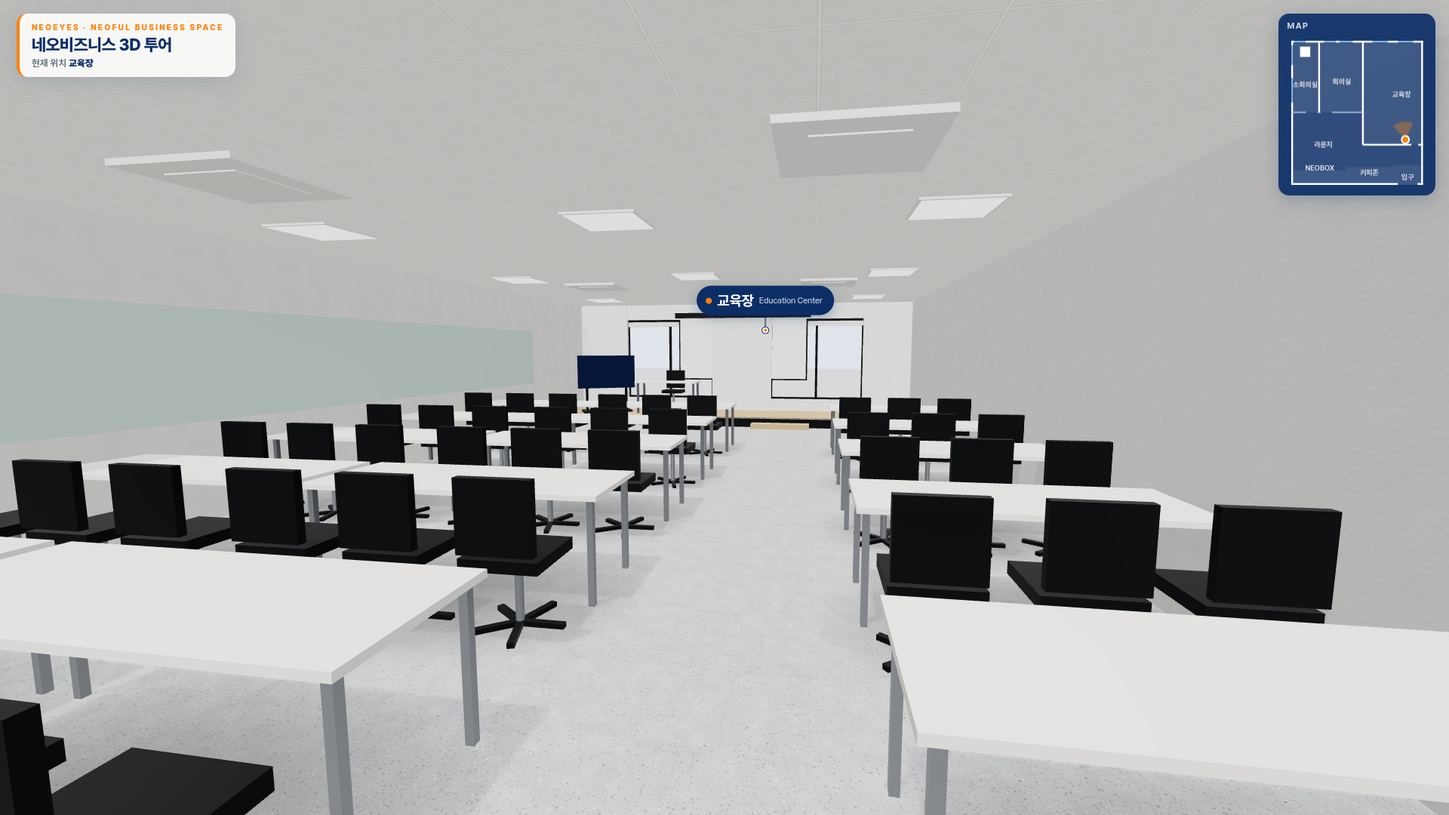
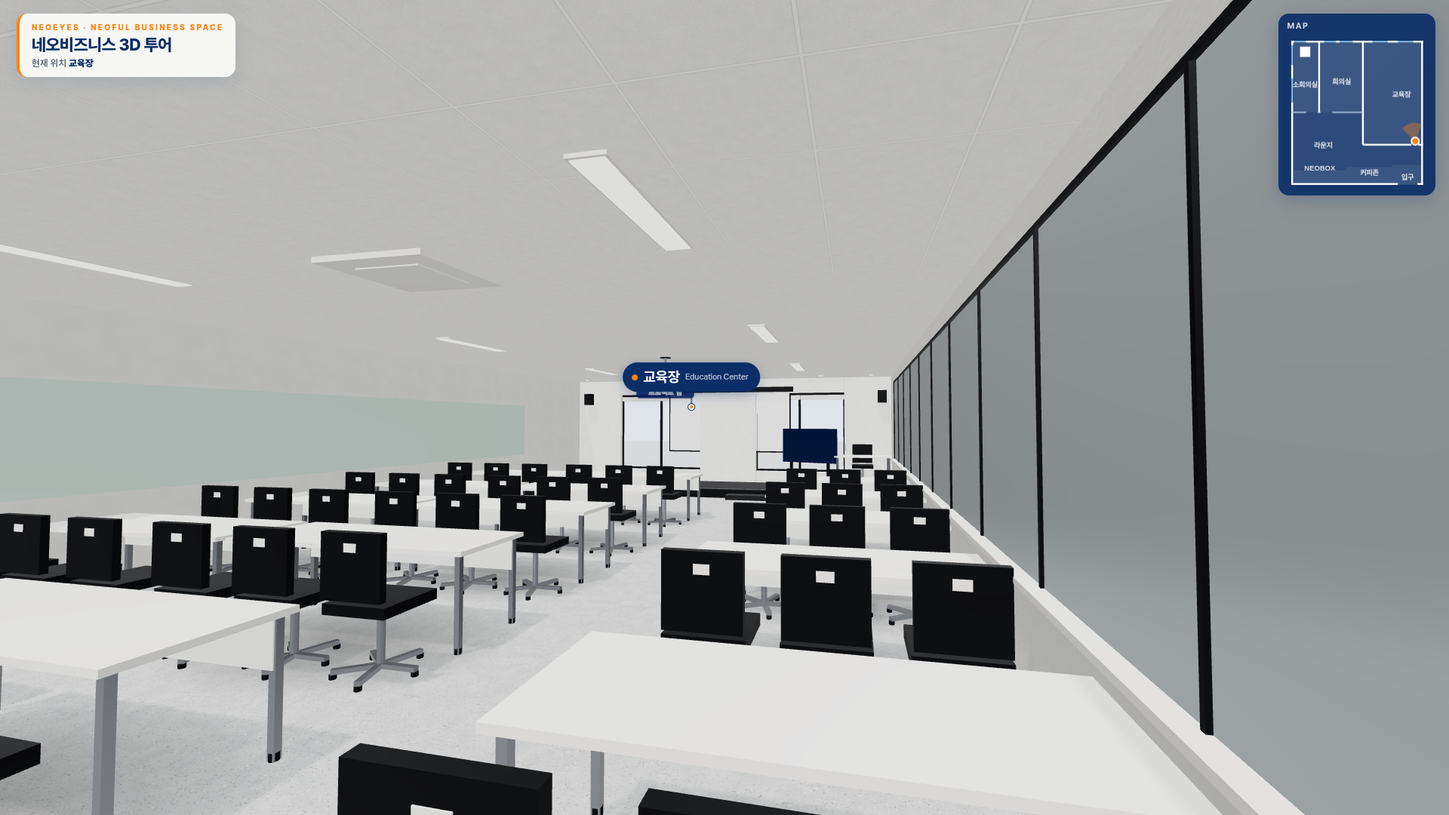
교육장 프로젝터·LED·거울패널, 소회의실 통창, 라운지 쪽 통유리 파티션·유리문 사진 반영

diff --git a/app.js b/app.js
@@ -5,7 +5,7 @@ import { OrbitControls } from 'three/addons/OrbitControls.js';
 import { CSS2DRenderer, CSS2DObject } from 'three/addons/CSS2DRenderer.js';
 import { RoomEnvironment } from 'three/addons/RoomEnvironment.js';
 import { mergeGeometries } from 'three/addons/BufferGeometryUtils.js';
-import { makeTextures, textTexture } from './textures.js?v=11181960';
+import { makeTextures, textTexture } from './textures.js?v=11181990';
 
 const L = window.LAYOUT, B = L.building, H = B.ceiling, EYE = B.eye || 1.6, W = B.width, D = B.depth;
 const TW = Object.assign({ exterior: 0.24, interior: 0.14, thick: 0.3 }, B.wall || {});
@@ -72,6 +72,9 @@ const M = {
   glass: new THREE.MeshPhysicalMaterial({ color: 0xe6f1f6, roughness: 0.04, metalness: 0, transparent: true, opacity: 0.14, depthWrite: false, side: THREE.DoubleSide, envMapIntensity: 1.6 }),
   frost: new THREE.MeshPhysicalMaterial({ color: 0xf2f5f7, roughness: 0.6, transparent: true, opacity: 0.74, depthWrite: false, side: THREE.DoubleSide }),
   mint: std({ color: 0xdcefe8, roughness: 0.07, envMapIntensity: 1.4 }),
+  winFrame: std({ color: 0xd8dadb, roughness: 0.38, metalness: 0.35 }),      // 밝은 회색 알루미늄 창틀(소회의실 사진)
+  blind: std({ color: 0xefebe3, roughness: 0.95, side: THREE.DoubleSide }),   // 롤스크린 원단
+  mirror: std({ color: 0xdce6ea, roughness: 0.05, metalness: 0.3, envMapIntensity: 1.8 }),  // 거울/유리 패널(교육장 동쪽 벽)
   screen: std({ color: 0xf6f6f6, roughness: 0.9, emissive: 0xffffff, emissiveIntensity: 0.05 }),
   tv: std({ color: 0x0c111c, roughness: 0.15, metalness: 0.2, emissive: 0x1a3d72, emissiveIntensity: 0.35 }),
   led: new THREE.MeshBasicMaterial({ color: 0xfdfdf8 }),
@@ -119,22 +122,54 @@ const WALLSEGS = [];   // 미니맵·벽 단면(cap)용
 /* 문: E키로 여닫는 회전 문짝. DOORS 에 등록되고, 닫힌 문은 충돌(통과 불가), 열린 문은 통과 가능 */
 const DOORS = [];
 function registerDoor(leaves, open, name) { const d = { leaves, target: open ? 1 : 0, cur: open ? 1 : 0, name, box: null, c: null }; DOORS.push(d); return d; }
-function door(hx, hz, w, baseRad, swingRad, leafMat, frameMat) {
+function door(hx, hz, w, baseRad, swingRad, leafMat, frameMat, style) {
   const g = new THREE.Group(); g.position.set(hx, 0, hz); g.rotation.y = baseRad; root.add(g);
   g.userData.noCollide = true; g.userData.dynamic = true;
+  if (style && style.frameless) {   // 프레임리스 유리문(사용자 사진): 바닥~천장, 시트 띠, 세로 블랙 D형 손잡이 0.3m, 상부 금속 패치
+    const top = H - 0.07;
+    for (const [y0, y1, m] of bandPieces(style, top)) { const p = new THREE.Mesh(new THREE.BoxGeometry(w - 0.03, y1 - y0, 0.012), m); p.position.set(w / 2, (y0 + y1) / 2 + 0.005, 0); g.add(p); }
+    box(0.16, 0.07, 0.035, M.metal, 0.1, top - 0.07, 0, g); box(0.16, 0.07, 0.035, M.metal, 0.1, 0.02, 0, g);   // 상·하 패치 피팅
+    const hx = w - 0.09;
+    for (const sd of [-1, 1]) { box(0.022, 0.3, 0.022, M.black, hx, 0.9, sd * 0.055, g); box(0.02, 0.02, 0.06, M.black, hx, 0.92, sd * 0.03, g); box(0.02, 0.02, 0.06, M.black, hx, 1.16, sd * 0.03, g); }
+    return { g, base: baseRad, swing: swingRad };
+  }
   const leaf = new THREE.Mesh(new THREE.BoxGeometry(w - 0.04, 2.04, 0.02), leafMat); leaf.position.set(w / 2, 1.04, 0); g.add(leaf);
   box(w, 0.045, 0.05, frameMat, w / 2, 2.04, 0, g); box(w, 0.06, 0.05, frameMat, w / 2, 0, 0, g);
   box(0.045, 2.1, 0.05, frameMat, 0.022, 0, 0, g); box(0.045, 2.1, 0.05, frameMat, w - 0.022, 0, 0, g);
   box(0.025, 0.5, 0.06, M.metal, w - 0.12, 0.8, 0, g);
   return { g, base: baseRad, swing: swingRad };
 }
-function wallPiece(horiz, a0, a1, fixed, t, type) {
+const sz2 = (horiz, along, thick) => horiz ? [along, thick] : [thick, along];
+function bandPieces(wo, top = H - 0.06) {   // [y0, y1, 재질] 목록: 투명 / 시트 띠 / (줄무늬) / 투명
+  const b0 = wo.band?.[0] ?? 0.9, b1 = wo.band?.[1] ?? 2.0, pcs = [[0.035, b0, M.glass]];
+  if (wo.stripes) { const n = wo.stripes, sp = 0.05, s0 = b1 - n * sp - 0.04; pcs.push([b0, s0, M.frost]); let y = s0; for (let i = 0; i < n; i++) { pcs.push([y, y + 0.02, M.glass], [y + 0.02, y + sp, M.frost]); y += sp; } pcs.push([y, b1, M.frost]); }
+  else pcs.push([b0, b1, M.frost]);
+  pcs.push([b1, top, M.glass]); return pcs;
+}
+function wallPiece(horiz, a0, a1, fixed, t, type, wo = {}, inward = 0) {
   const len = a1 - a0; if (len < 0.005) return;
   const c = (a0 + a1) / 2, cx = horiz ? c : fixed, cz = horiz ? fixed : c;
   const Wd = horiz ? len : t, Dd = horiz ? t : len;
   const sz = (along, thick) => horiz ? [along, thick] : [thick, along];
   WALLSEGS.push(horiz ? { x1: a0, z1: fixed, x2: a1, z2: fixed, t, type } : { x1: fixed, z1: a0, x2: fixed, z2: a1, t, type });
   if (type === 'solid') { box(Wd, H, Dd, M.paint, cx, 0, cz); return; }
+  if (type === 'window' && wo.style === 'tall') {   // 바닥~천장 통창 (소회의실 사진 IMG_0414·0415): 밝은 회색 프레임, 가로 창살 2개, 롤스크린
+    const sill = wo.sill ?? 0.1, head = wo.head ?? 2.55, fwid = wo.frameW ?? 0.07, fdep = 0.1;
+    box(Wd, sill, Dd, M.paint, cx, 0, cz); box(Wd, H - head, Dd, M.paint, cx, head, cz);
+    const [pw, pd] = sz(len, 0.02); const pane = new THREE.Mesh(new THREE.BoxGeometry(pw, head - sill, pd), M.glass); pane.position.set(cx, (sill + head) / 2, cz); root.add(pane);
+    const [fw, fd] = sz(len, fdep);
+    box(fw, fwid, fd, M.winFrame, cx, sill, cz); box(fw, fwid, fd, M.winFrame, cx, head - fwid, cz);
+    for (const y of (wo.transoms || [1.62, 2.25])) box(fw, fwid * 0.8, fd, M.winFrame, cx, y - fwid * 0.4, cz);
+    const n = Math.max(1, Math.round(len / (wo.bay || 1.4)));
+    for (let i = 0; i <= n; i++) { const f = a0 + len * i / n; box(horiz ? fwid : fdep, head - sill, horiz ? fdep : fwid, M.winFrame, horiz ? f : cx, sill, horiz ? cz : f); }
+    const [kw, kd] = sz(len, t + 0.02); box(kw, 0.02, kd, M.white, cx, sill - 0.02, cz);      // 낮은 창턱
+    if (inward) {
+      const off = inward * (t / 2 + 0.06), bx = horiz ? cx : cx + off, bz = horiz ? cz + off : cz;
+      const [bw, bd] = sz(len, 0.09); box(bw, 0.1, bd, M.white, bx, H - 0.1, bz);                // 롤스크린 박스(천장 아래)
+      const bl = wo.blind ?? 0; if (bl > 0.001) { const yb = H - 0.1 - (H - 0.1 - sill) * bl; const [cw, cd] = sz(len - 0.04, 0.008); box(cw, H - 0.1 - yb, cd, M.blind, bx, yb, bz); box(cw, 0.025, 0.02, M.winFrame, bx, yb - 0.01, bz); }
+    }
+    return;
+  }
   if (type === 'window') {
     const sill = 0.45, head = 2.35;
     box(Wd, sill, Dd, M.paint, cx, 0, cz); box(Wd, H - head, Dd, M.paint, cx, head, cz);
@@ -144,6 +179,14 @@ function wallPiece(horiz, a0, a1, fixed, t, type) {
     const n = Math.max(1, Math.round(len / 1.3));
     for (let i = 0; i <= n; i++) { const f = a0 + len * i / n; box(0.05, head - sill, 0.05, M.frame, horiz ? f : cx, sill, horiz ? cz : f); }
     const [bw, bd] = sz(len, 0.1); box(bw, 0.11, bd, M.white, cx, head - 0.16, cz);          // 롤 블라인드 박스
+    return;
+  }
+  if (wo.style === 'band') {   // 라운지 쪽 유리 파티션 (사용자 사진): 바닥~천장 유리, 블랙 알루미늄 프레임, 0.9~2.0m 반투명 시트 띠(+선택: 위쪽 가는 줄무늬)
+    const pcs = bandPieces(wo);
+    for (const [y0, y1, m] of pcs) { const [pw, pd] = sz(len, 0.012); const p = new THREE.Mesh(new THREE.BoxGeometry(pw, y1 - y0, pd), m); p.position.set(cx, (y0 + y1) / 2, cz); root.add(p); }
+    const [fw, fd] = sz(len, 0.05); box(fw, 0.035, fd, M.frame, cx, 0, cz); box(fw, 0.06, fd, M.frame, cx, H - 0.06, cz);   // 바닥 레일·상부 트랙
+    const n = Math.max(1, Math.round(len / (wo.bay || 1.2)));
+    for (let i = 0; i <= n; i++) { const f = a0 + len * i / n; box(horiz ? 0.04 : 0.055, H, horiz ? 0.055 : 0.04, M.frame, horiz ? f : cx, 0, horiz ? cz : f); }   // 블랙 세로 멀리언
     return;
   }
   // glass: 블랙 프레임 + 반투명 시트(하부) + 투명 유리(상부)
@@ -171,19 +214,35 @@ for (const w of L.walls) {
   if (w.outer) { if (fixed <= 0.001) fixed += t / 2; else if (horiz ? fixed >= D - 0.001 : fixed >= W - 0.001) fixed -= t / 2; }
   const ops = [...(w.openings || [])].sort((p, q) => p.at - q.at);
   let cur = a0;
-  for (const o of ops) { wallPiece(horiz, cur, o.at, fixed, t, w.type); cur = o.at + o.width; }
-  wallPiece(horiz, cur, a1, fixed, t, w.type);
+  const inward = w.outer ? (fixed < (horiz ? D : W) / 2 ? 1 : -1) : 0;
+  for (const o of ops) { wallPiece(horiz, cur, o.at, fixed, t, w.type, w, inward); cur = o.at + o.width; }
+  wallPiece(horiz, cur, a1, fixed, t, w.type, w, inward);
+  if (w.sign) {   // 유리벽 레터링 (예: COACHING ROOM)
+    const sg = w.sign, c = document.createElement('canvas'); c.width = 1024; c.height = 128; const cx2 = c.getContext('2d');
+    cx2.fillStyle = sg.color || '#1d1f23'; cx2.font = '600 84px Pretendard, sans-serif'; cx2.textAlign = 'center'; cx2.textBaseline = 'middle';
+    const tw = cx2.measureText(sg.text).width, ic = sg.icon ? 90 : 0; cx2.fillText(sg.text, 512 + ic / 2, 68);
+    if (sg.icon) { const ix = 512 - tw / 2 - ic / 2 + 10; cx2.lineWidth = 7; cx2.strokeStyle = cx2.fillStyle; cx2.beginPath(); cx2.arc(ix, 66, 30, 0, Math.PI * 2); cx2.stroke(); cx2.beginPath(); cx2.arc(ix, 66, 11, 0, Math.PI * 2); cx2.fill(); }
+    const tx = new THREE.CanvasTexture(c); tx.colorSpace = THREE.SRGBColorSpace;
+    const hgt = sg.size || 0.16, wd = hgt * 8, side = sg.side || 1;
+    const pl = new THREE.Mesh(new THREE.PlaneGeometry(wd, hgt), new THREE.MeshBasicMaterial({ map: tx, transparent: true, depthWrite: false }));
+    pl.userData.keep = true; pl.renderOrder = 10; pl.position.set(horiz ? sg.at : fixed + side * 0.012, sg.y || 1.48, horiz ? fixed + side * 0.012 : sg.at);
+    pl.rotation.y = horiz ? (side > 0 ? 0 : Math.PI) : (side > 0 ? Math.PI / 2 : -Math.PI / 2); root.add(pl);
+  }
   for (const o of ops) {
     const len = o.width, c = o.at + len / 2, cx = horiz ? c : fixed, cz = horiz ? fixed : c;
     const lintel = 2.12;
-    if (w.type === 'glass') { const p = new THREE.Mesh(new THREE.BoxGeometry(horiz ? len : 0.02, H - lintel, horiz ? 0.02 : len), M.glass); p.position.set(cx, (H + lintel) / 2, cz); root.add(p); box(horiz ? len : 0.06, 0.05, horiz ? 0.06 : len, M.frame, cx, H - 0.05, cz); }
+    if (o.door === 'frameless') { const [fw, fd] = sz2(horiz, len, 0.05); box(fw, 0.06, fd, M.frame, cx, H - 0.06, cz); box(horiz ? 0.04 : 0.055, H, horiz ? 0.055 : 0.04, M.frame, horiz ? o.at : cx, 0, horiz ? cz : o.at); box(horiz ? 0.04 : 0.055, H, horiz ? 0.055 : 0.04, M.frame, horiz ? o.at + len : cx, 0, horiz ? cz : o.at + len); }
+    else if (w.type === 'glass') { const p = new THREE.Mesh(new THREE.BoxGeometry(horiz ? len : 0.02, H - lintel, horiz ? 0.02 : len), M.glass); p.position.set(cx, (H + lintel) / 2, cz); root.add(p); box(horiz ? len : 0.06, 0.05, horiz ? 0.06 : len, M.frame, cx, H - 0.05, cz); }
     else box(horiz ? len : t, H - lintel, horiz ? t : len, M.paint, cx, lintel, cz);
     const fm = o.frame === 'white' ? M.white : M.frame;
-    box(horiz ? len + 0.06 : t + 0.02, 0.05, horiz ? t + 0.02 : len + 0.06, fm, cx, lintel - 0.05, cz);
+    if (o.door !== 'frameless') box(horiz ? len + 0.06 : t + 0.02, 0.05, horiz ? t + 0.02 : len + 0.06, fm, cx, lintel - 0.05, cz);
     if (!o.door || o.door === 'none') continue;
     const leafMat = o.door === 'wood' ? M.white : (w.type === 'glass' ? M.frost : M.glass);
     const baseStart = horiz ? 0 : -Math.PI / 2, baseEnd = horiz ? Math.PI : Math.PI / 2;
-    if (o.double) {
+    if (o.door === 'frameless') {
+      const start = (o.hinge || 'start') === 'start', sw = (o.swing || 80) * DEG, hp = start ? o.at : o.at + len;
+      registerDoor([door(horiz ? hp : fixed, horiz ? fixed : hp, len, start ? baseStart : baseEnd, sw, M.glass, fm, { frameless: true, band: w.band, stripes: w.stripes })], o.open === true, o.name);
+    } else if (o.double) {
       const hw = len / 2, sw = (o.swing || 80) * DEG;
       registerDoor([door(horiz ? o.at : fixed, horiz ? fixed : o.at, hw, baseStart, -sw, leafMat, fm),
                     door(horiz ? o.at + len : fixed, horiz ? fixed : o.at + len, hw, baseEnd, sw, leafMat, fm)], o.open === true, o.name);
@@ -219,6 +278,32 @@ for (const p of (L.ceiling?.panels || [])) {
     box(0.62, 0.02, 0.62, M.fixture, x, H - 0.025, z); box(0.58, 0.01, 0.58, M.led, x, H - 0.032, z);
   }
 }
+for (const p of (L.ceiling?.strips || [])) {          // 일자형(라인) LED 조명
+  const len = p.len || 1.2, wd = p.w || 0.16, sg = new THREE.Group(); sg.position.set(p.x, 0, p.z); sg.rotation.y = (p.rot || 0) * DEG; root.add(sg);
+  box(wd + 0.03, 0.02, len + 0.03, M.fixture, 0, H - 0.025, 0, sg); box(wd, 0.01, len, M.led, 0, H - 0.032, 0, sg);
+}
+const projLabels = []; const pm0 = (p) => p.color ? matOf(p.color) : M.white;
+for (const [x, z] of (L.ceiling?.downlights || [])) { cyl(0.075, 0.075, 0.012, M.fixture, x, H - 0.014, z, 20); cyl(0.058, 0.058, 0.006, M.led, x, H - 0.02, z, 20); }
+for (const p of (L.ceiling?.projectors || [])) {      // 천장형 빔 프로젝터 (흰 본체 + 렌즈, 짧은 천장 행거)
+  const pg = new THREE.Group(); pg.position.set(p.x, 0, p.z); root.add(pg);
+  const aim = p.aim || [p.x, 0]; pg.rotation.y = Math.atan2(-(aim[0] - p.x), -(aim[1] - p.z));   // 렌즈(로컬 -z)가 aim 을 향함
+  const drop = p.drop ?? 0.32, by = H - drop - 0.13;
+  cyl(0.09, 0.09, 0.012, pm0(p), 0, H - 0.012, 0, 24, pg);                        // 천장 플레이트
+  cyl(0.018, 0.018, drop - 0.03, M.metal, 0, by + 0.13 + 0.02, 0, 12, pg);          // 행거 봉
+  box(0.16, 0.025, 0.12, M.black, 0, by + 0.125, 0, pg);                            // 마운트 브래킷
+  const pm = p.color ? matOf(p.color) : M.white; const body = box(0.36, 0.12, 0.30, pm, 0, by, 0, pg); body.rotation.x = -0.05; // 본체
+  const lens = cyl(0.042, 0.048, 0.035, p.color === 'black' ? M.metal : M.black, 0, 0, 0, 24, pg); lens.rotation.x = Math.PI / 2; lens.position.set(0.09, by + 0.06, -0.165);
+  const glass = cyl(0.03, 0.03, 0.006, new THREE.MeshStandardMaterial({ color: 0x1b2a44, roughness: 0.05, metalness: 0.6 }), 0, 0, 0, 20, pg); glass.rotation.x = Math.PI / 2; glass.position.set(0.09, by + 0.06, -0.185);
+  box(0.2, 0.004, 0.03, M.black, -0.06, by + 0.12, 0.13, pg);                       // 통풍구
+  if (p.label !== false) {
+    const c = document.createElement('canvas'); c.width = 320; c.height = 72; const cx = c.getContext('2d');
+    cx.fillStyle = 'rgba(11,46,103,0.88)'; cx.beginPath(); cx.roundRect(2, 2, 316, 68, 18); cx.fill();
+    cx.fillStyle = '#fff'; cx.font = '700 40px Pretendard, sans-serif'; cx.textAlign = 'center'; cx.textBaseline = 'middle'; cx.fillText(p.label || '프로젝트 빔', 160, 38);
+    const t = new THREE.CanvasTexture(c); t.colorSpace = THREE.SRGBColorSpace;
+    const sp = new THREE.Sprite(new THREE.SpriteMaterial({ map: t, depthWrite: false })); const th = p.labelSize || 0.12;
+    sp.scale.set(th * 320 / 40, th * 72 / 40, 1);   /* 글자 높이 ≈ th(m) */ sp.position.set(p.x, by - 0.14, p.z); sp.renderOrder = 5; scene.add(sp); projLabels.push(sp);
+  }
+}
 for (const [x, z] of (L.ceiling?.aircon || [])) { box(0.84, 0.04, 0.84, M.fixture, x, H - 0.045, z); box(0.5, 0.012, 0.5, M.fixture, x, H - 0.055, z); }
 
 /* ---------------- furniture builders ---------------- */
@@ -227,7 +312,8 @@ function chair(g, o = {}) {      // 사무용 회전의자 (등받이 = 로컬 +
   const m = o.color ? matOf(o.color) : M.black;
   box(0.46, 0.07, 0.44, m, 0, 0.42, 0, g); box(0.44, 0.42, 0.05, m, 0, 0.52, 0.22, g);
   cyl(0.025, 0.025, 0.38, M.metal, 0, 0.05, 0, 8, g);
-  for (let i = 0; i < 5; i++) { const a = i * Math.PI * 2 / 5; const leg = box(0.28, 0.03, 0.04, M.black, Math.cos(a) * 0.13, 0.03, Math.sin(a) * 0.13, g); leg.rotation.y = -a; }
+  for (let i = 0; i < 5; i++) { const a = i * Math.PI * 2 / 5; const leg = box(0.28, 0.03, 0.04, o.base === 'silver' ? M.metal : M.black, Math.cos(a) * 0.13, 0.03, Math.sin(a) * 0.13, g); leg.rotation.y = -a; if (o.base === 'silver') cyl(0.022, 0.022, 0.03, M.black, Math.cos(a) * 0.26, 0, Math.sin(a) * 0.26, 8, g); }
+  if (o.tag) box(0.09, 0.055, 0.004, M.white, 0, 0.82, 0.248, g);   // 등받이 뒤 흰 이름표
 }
 function meshChair(g) {   // 사진 속 NEOBOX 의자: 흰 5발 베이스 + 베이지 시트 + 흰 루프 팔걸이 + 연회색 메쉬 등받이 (등받이 = 로컬 +z, 정면 = -z)
   const W2 = M.white, seat = matOf('fabricBeige');
@@ -300,10 +386,11 @@ function legs4(g, w, d, h, m, inset = 0.06, sz = 0.04) {
 function desk(g, o) {
   const w = o.w || 1.4, d = o.d || 0.6, h = o.h || 0.72;
   box(w, 0.035, d, matOf(o.top || 'white'), 0, h - 0.035, 0, g); legs4(g, w, d, h - 0.035, matOf(o.legs || 'metal'));
+  if (o.casters) { box(w - 0.1, 0.25, 0.012, M.white, 0, h - 0.29, -d / 2 + 0.08, g); for (const sx of [-1, 1]) for (const sz2 of [-1, 1]) cyl(0.025, 0.025, 0.04, M.black, sx * (w / 2 - 0.06), 0, sz2 * (d / 2 - 0.06), 8, g); }   // 접이식 강의 책상: 앞 가림판 + 바퀴
 }
 function deskPair(g, o) {   // 책상 + 뒤쪽 의자 n개(기본 2), 의자는 책상(북쪽, -z)을 바라봄
-  const w = o.w || 1.5, d = o.d || 0.5, n = o.chairs || 2; desk(g, { w, d });
-  for (let i = 0; i < n; i++) chair(grp(n === 2 ? (i ? 1 : -1) * w * 0.24 : -w / 2 + w / (2 * n) + i * w / n, d / 2 + 0.3, 0, g), {});
+  const w = o.w || 1.5, d = o.d || 0.5, n = o.chairs || 2; desk(g, { w, d, casters: o.casters });
+  for (let i = 0; i < n; i++) chair(grp(n === 2 ? (i ? 1 : -1) * w * 0.24 : -w / 2 + w / (2 * n) + i * w / n, d / 2 + 0.3, 0, g), { tag: o.tag, base: o.chairBase });
 }
 /* 단상(무대): 걸어 올라갈 수 있는 낮은 플랫폼. 위에 놓는 가구는 elev(바닥에서 띄우는 높이)를 단상 높이로 */
 const PLATFORMS = [];
@@ -330,7 +417,16 @@ function tableSet(g, o) {   // 테이블(세로 d 방향으로 길게) + 양옆 
   const place = (cnt, side) => { for (let i = 0; i < cnt; i++) { const z = cnt === 1 ? 0 : -d / 2 + inset + i * (d - 2 * inset) / (cnt - 1); chair(grp(side * (w / 2 + 0.275), z, side * 90, g), {}); } };
   place(o.chairsLeft || 0, -1); place(o.chairsRight || 0, 1);
 }
-function whiteboard(g, o) { box(o.w || 2, 1.05, 0.04, M.mint, 0, 0.95, 0, g); }
+function whiteboard(g, o) {
+  if (o.style === 'mirror') {   // 대형 유리/거울 패널 + 하부 선반(교육장 동쪽 벽, 사진 IMG_0382)
+    const w = o.w || 2, n = Math.max(1, Math.round(w / 1.2)), y0 = o.y0 ?? 0.9, y1 = o.y1 ?? 2.45;
+    box(w, y1 - y0, 0.02, M.mirror, 0, y0, 0, g);
+    for (let i = 0; i <= n; i++) box(0.02, y1 - y0, 0.035, M.frame, -w / 2 + w * i / n, y0, -0.008, g);
+    box(w, 0.025, 0.035, M.frame, 0, y1, -0.008, g);
+    box(w, 0.03, 0.1, M.white, 0, y0 - 0.03, -0.04, g); return;   // 선반(레지)
+  }
+  box(o.w || 2, 1.05, 0.04, M.mint, 0, 0.95, 0, g);
+}
 function screen(g, o) { const w = o.w || 2.2; box(w + 0.06, 1.46, 0.015, M.black, 0, 0.92, 0.01, g); box(w, 1.4, 0.02, M.screen, 0, 0.95, -0.01, g); box(w + 0.2, 0.12, 0.14, M.black, 0, 2.38, -0.04, g); }
 function tvStand(g) { box(1.3, 0.75, 0.07, M.tv, 0, 0.55, 0, g); box(0.05, 0.6, 0.05, M.black, -0.45, 0, 0, g); box(0.05, 0.6, 0.05, M.black, 0.45, 0, 0, g); box(1.1, 0.04, 0.5, M.black, 0, 0, 0, g); }
 function tvWall(g, o) {

diff --git a/layout.js b/layout.js
@@ -73,6 +73,10 @@ window.LAYOUT = {
                 door: 'glass'(유리문) / 'wood'(흰 목재문) / 'none'(문 없이 뚫린 통로)
                 hinge: 'start'|'end' (경첩 쪽), swing: 열린 각도(도, +/-로 방향)
                 double:true 면 양문(두 짝)
+                style:'tall' (창문) = 바닥~천장 통창(밝은 회색 프레임). transoms:[가로 창살 높이들], bay(세로 창살 간격), blind(롤스크린 내림 정도 0~1)
+                style:'band' (유리벽) = 바닥~천장 유리 + 블랙 프레임, band:[0.9, 2.0] 반투명 시트 높이, stripes:3 = 시트 위쪽 가는 줄무늬
+                sign:{ text, at, y, size, icon } = 유리 레터링 (icon:true 면 왼쪽 작은 원형 아이콘)
+                door:'frameless' = 바닥~천장 시트 유리문(블랙 세로 손잡이, 상부 금속 패치)
                 ★ 문은 모두 닫힌 상태로 시작하고, 걷기 모드에서 문 앞에서 E키(모바일은 '열기' 버튼)로 여닫아요.
                   처음부터 열어 두려면 open:true 를 넣으세요. (3D 보기에서는 잘 보이도록 모두 열린 모습으로 보여요)
                   swing = 열렸을 때 각도(도). NEOBOX 부스 문도 booth 가구에 open:true / swing 을 넣을 수 있어요.          */
@@ -80,7 +84,7 @@ window.LAYOUT = {
     // 바깥벽 — 북쪽(위)
     // (2026-11-18 사용자 실측 스케치 반영: 초록색 = 창문)
     { from:[0, 0],     to:[0.4, 0],   type:'solid',  outer:true },
-    { from:[0.4, 0],   to:[2.0, 0],   type:'window', outer:true },   // 소회의실 창
+    { from:[0.4, 0],   to:[2.0, 0],   type:'window', outer:true, style:'tall', blind:0.55 },   // 소회의실 창 (사진 IMG_0413·0415: 통창, 롤스크린 반쯤 내림)
     { from:[2.0, 0],   to:[4.5, 0],   type:'solid',  outer:true },
     { from:[4.5, 0],   to:[6.1, 0],   type:'window', outer:true },   // 회의실 창 ①
     { from:[6.1, 0],   to:[6.6, 0],   type:'solid',  outer:true },
@@ -92,9 +96,9 @@ window.LAYOUT = {
     { from:[16.7, 0],  to:[18, 0],    type:'solid',  outer:true },
     // 바깥벽 — 서쪽(왼쪽)
     { from:[0, 0],     to:[0, 0.6],   type:'solid',  outer:true },
-    { from:[0, 0.6],   to:[0, 3.3],   type:'window', outer:true },   // 소회의실 창 ① (위)
+    { from:[0, 0.6],   to:[0, 3.3],   type:'window', outer:true, style:'tall', blind:0.6 },    // 소회의실 창 ① (위) — 사진 IMG_0415: 롤스크린 내림
     { from:[0, 3.3],   to:[0, 5.1],   type:'solid',  outer:true },
-    { from:[0, 5.1],   to:[0, 8.4],   type:'window', outer:true },   // 소회의실 창 ② (가운데)
+    { from:[0, 5.1],   to:[0, 8.4],   type:'window', outer:true, style:'tall', blind:0 },      // 소회의실 창 ② (가운데) — 사진 IMG_0414·0415: 롤스크린 올림
     { from:[0, 8.4],   to:[0, 9.21],  type:'solid',  outer:true },
     { from:[0, 9.21],  to:[0, 19.6],  type:'solid',  outer:true, molding:'east', moldingFrom:9.9, moldingTo:17.3 },  // 라운지 몰딩 벽 (molding: 몰딩을 붙일 면, From~To 구간)
     // 바깥벽 — 남쪽(아래), 입구 유리 양문
@@ -106,10 +110,11 @@ window.LAYOUT = {
     // 안쪽 벽
     { from:[3.81, 0],  to:[3.81, 9.74], type:'solid' },                       // 소회의실 | 회의실
     { from:[9.79, 0],  to:[9.79, 14.14], type:'solid', t:0.30, molding:'west', moldingFrom:9.86, moldingTo:14.14 },  // 회의실·라운지 | 교육장
-    { from:[0, 9.74],  to:[3.81, 9.74], type:'glass',
-      openings:[ { at:2.0, width:1.6, door:'glass', hinge:'end', swing:-63 } ] },    // 소회의실 앞 유리벽 + 문(동쪽 끝)
-    { from:[3.81, 9.74], to:[9.79, 9.74], type:'glass',
-      openings:[ { at:4.0, width:1.6, door:'glass', hinge:'start', swing:63 } ] },   // 회의실 앞 유리벽 + 문(서쪽 끝, 소회의실 문 바로 옆)
+    // 라운지 쪽 유리벽 (사용자 사진): 바닥~천장 유리 + 블랙 프레임, 0.9~2.0m 반투명 시트 띠, 문은 프레임리스 시트 유리문 + 세로 블랙 손잡이
+    { from:[0, 9.74],  to:[3.81, 9.74], type:'glass', style:'band', band:[0.9, 2.0], sign:{ text:'COACHING ROOM', at:1.0, y:1.5, size:0.11, icon:true },
+      openings:[ { at:2.0, width:1.6, door:'frameless', hinge:'end', swing:-63 } ] },    // 소회의실 앞 유리벽 + 문(동쪽 끝)
+    { from:[3.81, 9.74], to:[9.79, 9.74], type:'glass', style:'band', band:[0.9, 2.0], stripes:3, sign:{ text:'MEETING ROOM', at:7.0, y:1.5, size:0.11 },
+      openings:[ { at:4.0, width:1.6, door:'frameless', hinge:'start', swing:63 } ] },   // 회의실 앞 유리벽 + 문(서쪽 끝, 소회의실 문과 블랙 기둥 사이로 나란히)
     { from:[9.79, 14.14], to:[18, 14.14], type:'solid', t:0.30,
       openings:[ { at:16.41, width:0.95, door:'glass', frame:'white', hinge:'start', swing:66 } ] }  // 교육장 출입문
   ],
@@ -121,16 +126,28 @@ window.LAYOUT = {
 
   /* ---------- 4. 천장 조명 ----------
      panels : [x1,z1,x2,z2] 영역에 가로 nx × 세로 nz 개의 LED 평판 조명
+     strips : 일자형 LED 라인 조명 { x, z, len(길이), w(폭), rot(회전°, 0 = 남북 방향) }
+     projectors : 천장 빔 프로젝터 { x, z, aim:[x,z](렌즈가 향하는 곳), drop(천장에서 내려온 길이), label(글씨, false 면 숨김) }
+     downlights : 작은 원형 다운라이트 [x, z]
      aircon : 천장형 에어컨 위치 [x, z]                                             */
   ceiling: {
     panels: [
       { rect:[0, 2.4, 3.81, 9.74],   nx:1, nz:3 },
       { rect:[3.81, 0, 9.79, 9.74],  nx:2, nz:3 },
-      { rect:[9.79, 0, 18, 14.14],   nx:3, nz:4 },
       { rect:[0, 9.74, 9.79, 17.7],  nx:3, nz:2 },
       { rect:[9.79, 14.14, 18, 19.6], nx:2, nz:1 }
     ],
-    aircon: [[6.9,4.8],[12.0,4.3],[15.8,4.3],[12.0,10.3],[15.8,10.3],[4.5,13.0]]
+    // 교육장: 사진 IMG_0382·0384 기준 — 남북 방향 일자 LED 2열 × 3줄, 가운데 줄에 천장 에어컨과 빔 프로젝터
+    strips: [
+      { x:11.9, z:3.0, len:1.2 }, { x:15.9, z:3.0, len:1.2 },
+      { x:11.9, z:7.0, len:1.2 }, { x:15.9, z:7.0, len:1.2 },
+      { x:11.9, z:11.0, len:1.2 }, { x:15.9, z:11.0, len:1.2 }
+    ],
+    projectors: [
+      { x:13.91, z:4.9, aim:[13.91, 0.18], drop:0.3, color:'black', label:'프로젝트 빔' }   // 앞에서 약 1/3 지점, 스크린 정면을 향함 (사진: 검은 본체)
+    ],
+    downlights: [[10.5, 0.9], [11.6, 0.9], [16.2, 0.9], [17.3, 0.9]],   // 앞쪽 작은 원형 다운라이트
+    aircon: [[6.9,4.8],[13.91,3.6],[13.91,10.3],[4.5,13.0]]
   },
 
   /* ---------- 5. 가구 ----------
@@ -153,7 +170,7 @@ window.LAYOUT = {
     { type:'stool', x:3.27, z:0.86, color:'fabricGray',  h:0.68 },
     { type:'bench', x:3.52, z:1.95, w:0.4, d:1.0, h:0.42, color:'fabricGray' },
     { type:'cube',  x:3.51, z:2.75, size:0.42, color:'fabricOrange' },
-    { type:'plant', x:0.45, z:6.3, scale:1.0 },
+    { type:'plant', x:2.8, z:2.38, scale:0.95 },                        // 슬랫 기둥 앞 화분 (사진 IMG_0414·0415)
     { type:'cabinet', x:0.32, z:8.94, w:0.35, d:1.2, h:0.6, color:'black' },
     { type:'block', x:0.32, z:1.4, w:0.08, d:0.06, h:0.14, y:1.02, color:'black' },   // 바 테이블 위 폰 거치대
 
@@ -165,17 +182,19 @@ window.LAYOUT = {
     { type:'cabinet', x:8.4, z:0.47, w:1.6, d:0.4, h:0.6, color:'white' },
 
     /* --- 교육장 --- */
-    { type:'stage', x:13.915, z:0.95, w:7.93, d:1.5, h:0.2, top:'oak', stepX:1.0 },   // 단상 x9.95–17.88, z0.2–1.7, 높이 0.2 (실측 스케치 빨간색)
+    { type:'stage', x:13.85, z:0.97, w:7.82, d:1.5, h:0.2, top:'darkTop', stepX:1.0 },   // 단상 x9.94–17.76(벽 안쪽 면 사이), z0.2–1.7, 높이 0.2 (실측 스케치 빨간색)
     { type:'screen', x:13.91, z:0.18, w:3.0, rot:180 },
-    { type:'desk', x:12.31, z:1.0, w:1.4, d:0.6, elev:0.2 },          // 강연대(단상 위, elev = 단상 높이)
-    { type:'chair', x:12.31, z:0.5, rot:180, elev:0.2 },
-    { type:'tvStand', x:10.84, z:1.0, rot:29, elev:0.2 },
+    { type:'tvStand', x:15.95, z:1.05, rot:-22, elev:0.2 },          // 강의용 모니터(스크린 오른쪽, 사진 기준)
+    { type:'desk', x:17.1, z:1.05, w:1.2, d:0.6, elev:0.2 },          // 강연대(단상 위 오른쪽, elev = 단상 높이)
+    { type:'chair', x:17.1, z:0.6, rot:180, elev:0.2 },
+    { type:'block', x:10.25, z:0.33, w:0.2, d:0.15, h:0.28, y:2.1, color:'black' },   // 벽 스피커(앞벽 왼쪽 위)
+    { type:'block', x:17.55, z:0.33, w:0.2, d:0.15, h:0.28, y:2.1, color:'black' },    // 벽 스피커(앞벽 오른쪽 위)
     { type:'whiteboard', x:9.97, z:7.07, w:8.5, rot:-90 },
-    { type:'whiteboard', x:17.85, z:7.07, w:8.5, rot:90 },
+    { type:'whiteboard', x:17.74, z:7.5, w:11.6, rot:90, style:'mirror' },   // 동쪽 벽 대형 유리 패널 + 선반 (사진)
     // 수강 책상 5줄 (실측 스케치): 왼쪽 2개 붙은 책상 | 통로 x14.3–15.85 | 동쪽 벽 쪽 1개. 의자는 책상 뒤에서 단상(북쪽)을 바라봄
-    { type:'array', xs:[11.025], zs:[4.35, 6.35, 8.1, 9.9, 11.8], item:{ type:'deskPair', w:2.15, d:0.75, chairs:3 } },   // x9.95–12.1
-    { type:'array', xs:[13.25],  zs:[4.35, 6.35, 8.1, 9.9, 11.8], item:{ type:'deskPair', w:2.1,  d:0.75, chairs:3 } },   // x12.2–14.3
-    { type:'array', xs:[16.865], zs:[4.35, 6.35, 8.1, 9.9, 11.8], item:{ type:'deskPair', w:2.03, d:0.75, chairs:3 } },   // x15.85–17.88(동쪽 벽)
+    { type:'array', xs:[11.025], zs:[4.35, 6.35, 8.1, 9.9, 11.8], item:{ type:'deskPair', w:2.15, d:0.75, chairs:3, casters:true, tag:true, chairBase:'silver' } },   // x9.95–12.1
+    { type:'array', xs:[13.25],  zs:[4.35, 6.35, 8.1, 9.9, 11.8], item:{ type:'deskPair', w:2.1,  d:0.75, chairs:3, casters:true, tag:true, chairBase:'silver' } },   // x12.2–14.3
+    { type:'array', xs:[16.8], zs:[4.35, 6.35, 8.1, 9.9, 11.8], item:{ type:'deskPair', w:1.9, d:0.75, chairs:3, casters:true, tag:true, chairBase:'silver' } },   // x15.85–17.75(동쪽 벽 안쪽 면)
     { type:'tvWall', x:14.82, z:14.34, w:2.5, rot:180 },                     // 교육장 앞 백라이트 TV 패널(라운지 쪽)
     { type:'signStand', x:15.17, z:14.84 },
     { type:'signStand', x:15.57, z:14.84 },

diff --git a/index.html b/index.html
@@ -123,8 +123,8 @@ body.shot #doorPrompt{font-size:22px;padding:12px 22px 12px 14px}body.shot #door
   </div>
 </aside>
 <!-- 공간 설정: 치수·가구 배치는 layout.js 에서 수정 -->
-<script src="layout.js?v=11181960"></script>
+<script src="layout.js?v=11181990"></script>
 <script type="importmap">{"imports":{"three":"./lib/three.module.min.js","three/addons/":"./lib/addons/"}}</script>
-<script type="module" src="app.js?v=11181960"></script>
+<script type="module" src="app.js?v=11181990"></script>
 </body>
 </html>

diff --git a/수정방법.md b/수정방법.md
@@ -224,3 +224,23 @@ ceiling: { panels:[ { rect:[x1,z1,x2,z2], nx:2, nz:3 } ],  aircon:[[x,z], ...] }
 - 화면이 하얗게 멈추면: layout.js 에 쉼표(,)·괄호가 빠졌는지 확인하세요. 브라우저 F12 → Console 에 줄 번호가 나와요.
 - 가구가 안 보이면: Console 에 `알 수 없는 가구 type` 경고가 있는지 확인(오타).
 - 화질/속도: 오른쪽 아래 `화질 높음/낮음` 버튼 (모바일은 기본 낮음).
+
+
+## 천장 조명 · 빔 프로젝터 (layout.js → ceiling)
+- `panels` : 사각 LED 평판 조명을 영역에 격자로 배치
+- `strips` : 일자형 LED 라인 조명. 예 `{ x:11.9, z:3.0, len:1.2 }` (rot:90 이면 동서 방향)
+- `projectors` : 천장 빔 프로젝터. 예 `{ x:13.91, z:5.8, aim:[13.91, 0.18], drop:0.32, label:'프로젝트 빔' }`
+  - `aim` = 렌즈가 향하는 바닥 위치(보통 스크린 중앙), `drop` = 천장에서 내려온 행거 길이(m)
+  - `label` 글씨는 프로젝터 아래에 작게 떠 있어요. `label:false` 로 숨길 수 있어요.
+- `downlights` : 작은 원형 다운라이트 `[x, z]`
+- `projectors` 에 `color:'black'` 을 넣으면 검은 본체
+- `aircon` : 천장형 에어컨 위치 `[x, z]`
+
+## 창문 · 유리벽 스타일 (layout.js → walls)
+- 창문 `style:'tall'` : 바닥~천장 통창, 밝은 회색 알루미늄 프레임 (소회의실)
+  - `transoms:[1.62, 2.25]` 가로 창살 높이, `bay:1.4` 세로 창살 간격, `blind:0.6` 롤스크린 내림 정도(0 = 올림, 1 = 끝까지)
+- 유리벽 `style:'band'` : 바닥~천장 유리 + 블랙 알루미늄 프레임, `band:[0.9, 2.0]` 반투명 시트 높이, `stripes:3` 시트 위쪽 가는 줄무늬
+- `sign:{ text:'COACHING ROOM', at:1.0, y:1.5, size:0.11, icon:true }` : 유리에 붙은 글자 (icon = 왼쪽 원형 아이콘)
+- 문 `door:'frameless'` : 바닥~천장 시트 유리문 + 블랙 세로 손잡이 + 상부 금속 패치
+- 화이트보드 `style:'mirror'` : 대형 유리/거울 패널 + 선반 (교육장 동쪽 벽)
+- 강의 책상 `deskPair` 옵션: `casters:true`(바퀴·앞 가림판), `tag:true`(의자 이름표), `chairBase:'silver'`
